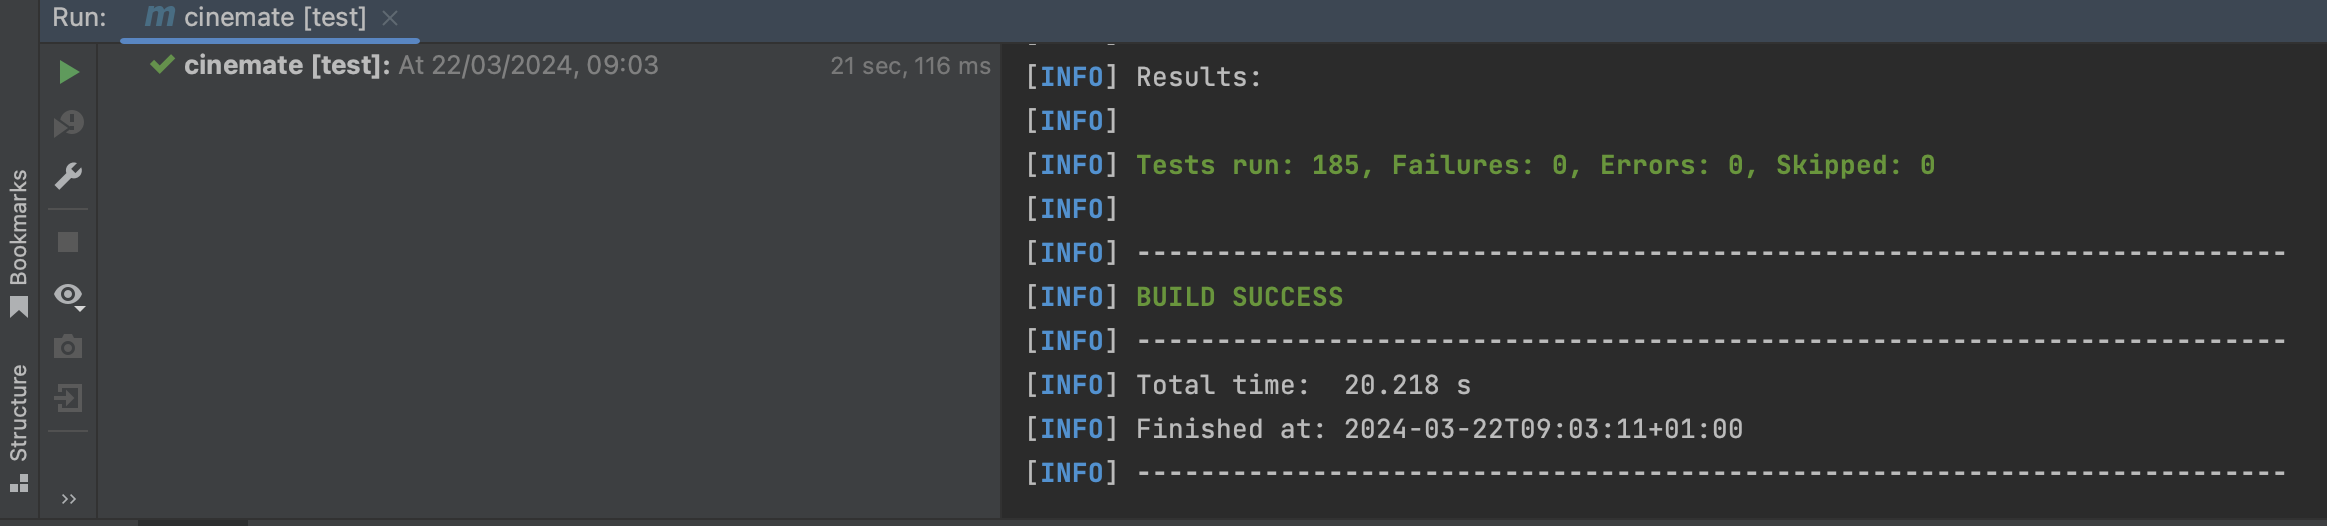
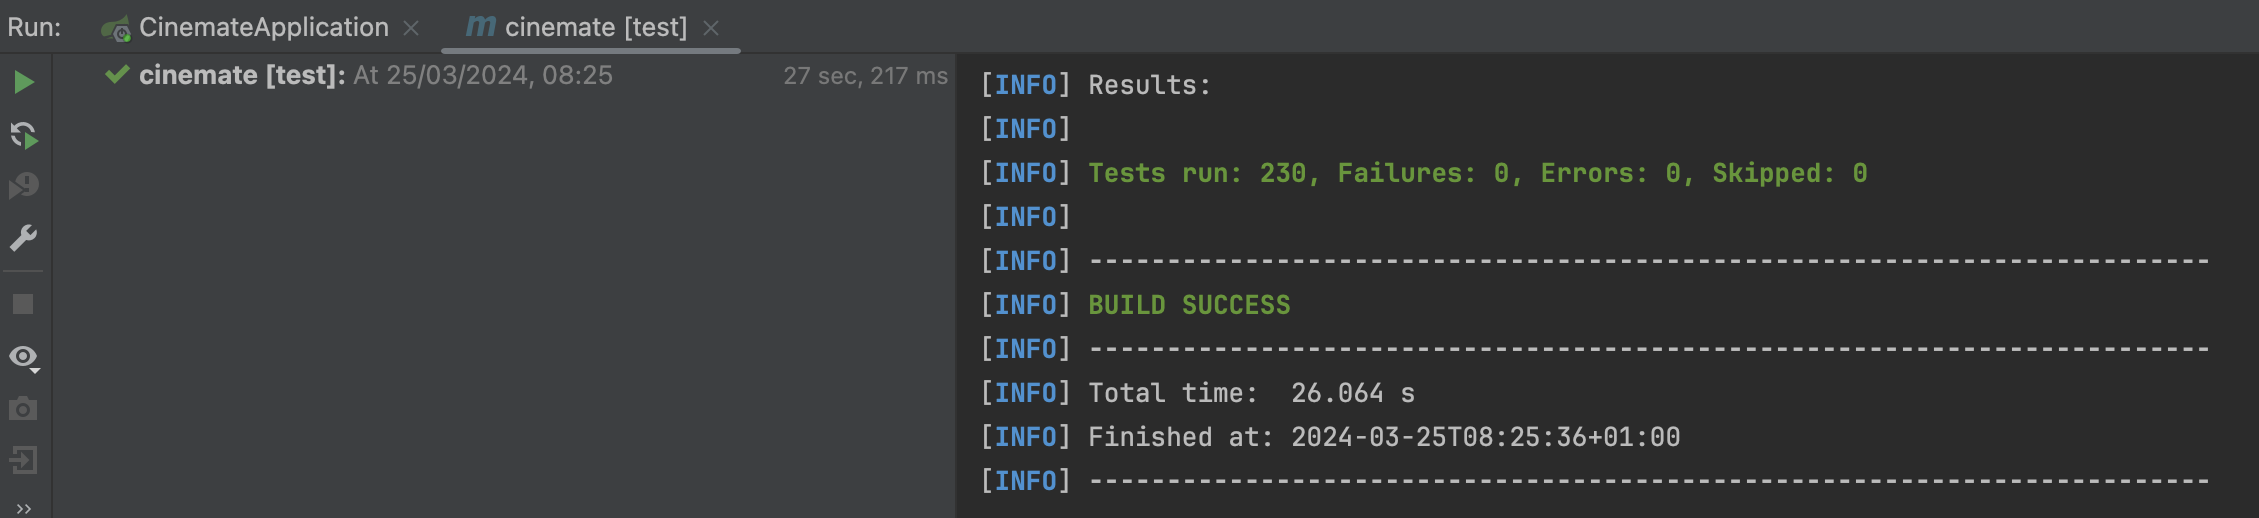
Update README file

diff --git a/README.md b/README.md
@@ -42,6 +42,7 @@ Cinemate leverages the following technologies and frameworks to deliver an unpar
 * Java 21 📚
 * Spring Boot 🏃
 * Spring Data JPA (Hibernate) 🗃
+* Spring Security (+JWT) 🔒
 * PostgreSQL Database 📊
 * Docker 🐳
 * Flyway 🛫
@@ -59,26 +60,33 @@ These cutting-edge tools come together seamlessly to power up our movie companio
 
 ### (To be reformatted)
 
-* #### Project file structure
+* #### Project file structure -> Package by Feature
 <img src="backend-screenshots/project_structure.png" alt="project_structure" align="center" width="350">
 
-* #### Tests are very important - that's why at this moment, before even running first version of our app, we currently have **185 tests** :)
+* #### Tests are very important - that's why at this moment, before even running first version of our app, we currently have **+200 tests** :)
 <img src="backend-screenshots/tests.png" alt="tests" align="center" width="650">
 
 * #### Docker containers (after running maven:test, it is creating Testcontainers)
 <img src="backend-screenshots/docker.png" alt="docker" align="center" width="650">
 
-* #### CI/CD in action (via GitHub Actions)
-<img src="backend-screenshots/CI:CD.png" alt="cicd" align="center" width="650">
+* #### CI (Continuous Integration) in action (via GitHub Actions)
+<img src="backend-screenshots/ci.png" alt="ci" align="center" width="650">
 
-* #### Docker Hub (successfully deployeed app to Docker Hub)
-<img src="backend-screenshots/dockerhub.png" alt="dockerhub" align="center" width="650">
+* #### CD (Continuous Deployment) in action (via Docker hub)
+<img src="backend-screenshots/cd.png" alt="cd" align="center" width="650">
 
 * #### Slack in action!
 <img src="backend-screenshots/slack.png" alt="slack" align="center" width="650">
 
 
 ## <a name="howtorun"></a> 🚀 How to Run?
+
+* ### <a name="project"></a> Project
+
+1. Clone this git repository: `$ git clone https://github.com/patryk47853/Cinemate.git`
+2. Fetch all Maven dependencies.
+3. That's it! Cinemate will be available at `http://localhost:8080/`.
+<br>
 
 * ### <a name="database"></a> Database
 
@@ -94,20 +102,71 @@ with your PostgreSQL database credentials.
 
 `docker-compose up -d  `
 
+3. *(Optional) Rename `V2_Insert_Initial_Data` to `V2__Insert_Initial_Data` to insert Initial Data to the database. When you run your application, Flyway will initialize this data for you. :)
+
 Database will be automatically initalized through Flyway :)
 
-* ### <a name="project"></a> Project
+* ### Viewing Database Details
 
-1. Clone this git repository: `$ git clone https://github.com/patryk47853/Cinemate.git`
-2. Fetch all Maven dependencies.
-3. That's it! Cinemate will be available at `http://localhost:8080/login`.
+#### Terminal Access
+
+To view details of your database via the terminal, follow these steps:
+
+1. Navigate to the root folder of your project in the terminal.
+
+2. Run the following command to enter the Docker container:
+    ```
+    docker exec -it cinemate bash
+    ```
+
+3. Once inside the container, access the PostgreSQL command line interface by typing:
+    ```
+    psql -U postgres cinemate_db
+    ```
+
+4. To see the contents of a specific table, execute:
+    ```
+    SELECT * FROM <table_name>;
+    ```
+
+5. To exit the PostgreSQL command line interface, type:
+    ```
+    \q
+    ```
+
+#### PGAdmin4 Access
+
+To view database details using PGAdmin4, perform the following steps:
+
+1. Open PGAdmin.
+
+2. In the Browser panel on the left side, right-click on "Servers" and select "Create" -> "Server...".
+
+3. In the "General" tab of the "Create - Server" dialog, provide the following details:
+  - Enter a name for your server in the "Name" field (e.g., "Cinemate DB").
+
+4. In the "Connection" tab, fill in the following information:
+  - For "Host name/address", enter localhost.
+  - For "Port", enter 5332 (mapped from host port 5332 to container port 5432).
+  - For "Maintenance database", enter postgres or the name of your database if different.
+  - For "Username", enter cinemate or the username configured for your PostgreSQL database.
+  - For "Password", enter admin123 or the password configured for your PostgreSQL database.
+
+5. Click "Save" to save the server configuration.
+
+Now you can explore your database details conveniently using PGAdmin4.
+
+### Note:
+- Make sure Docker is running before accessing the database via the terminal.
+- Adjust the port numbers and credentials if they differ from the provided example.
+- Replace `<table_name>` with the actual name of the table you want to view.
 
 ## <a name="todo"></a> 📋 TO-DO List
 
 - [ ] Implement basic frontend for better User Experience!
-- [ ] Implemet Movie entity and fully test it.
+- [x] Implemet Movie entity and fully test it.
 - [ ] Create controllers and test access to them.
-- [ ] Expand database to include more comprehensive movie metadata.
-- [ ] Add Spring Security to enable users to securely utilize the initial version of our application!
+- [x] Expand database to include more comprehensive movie metadata.
+- [x] Add Spring Security to enable users to securely utilize the initial version of our application!
 
 Stay tuned for exciting updates and new features coming soon!
